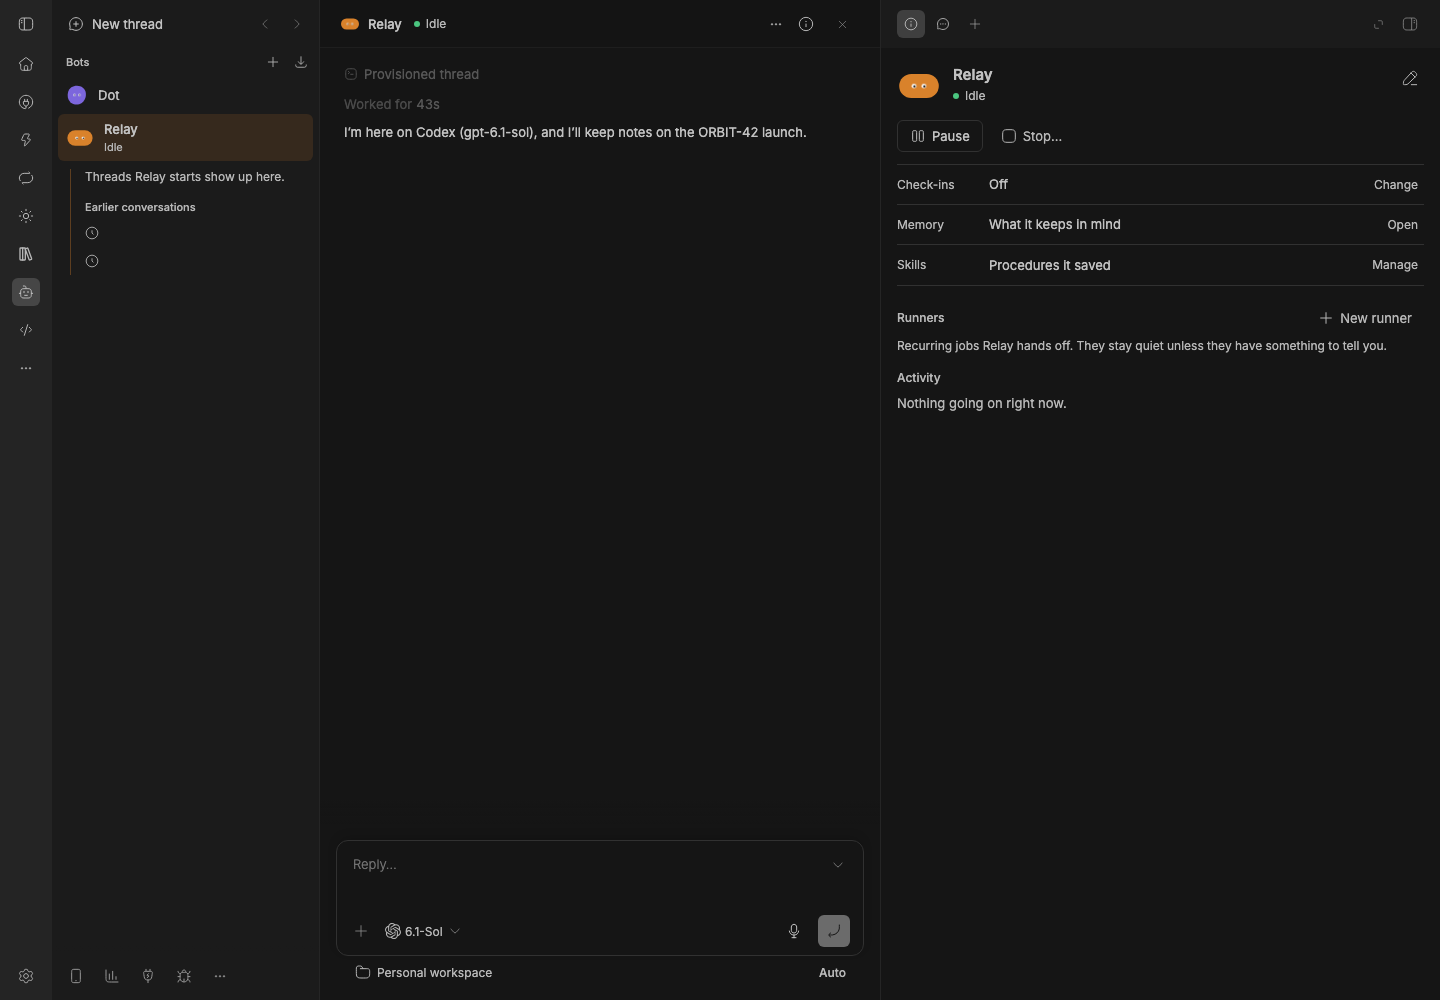
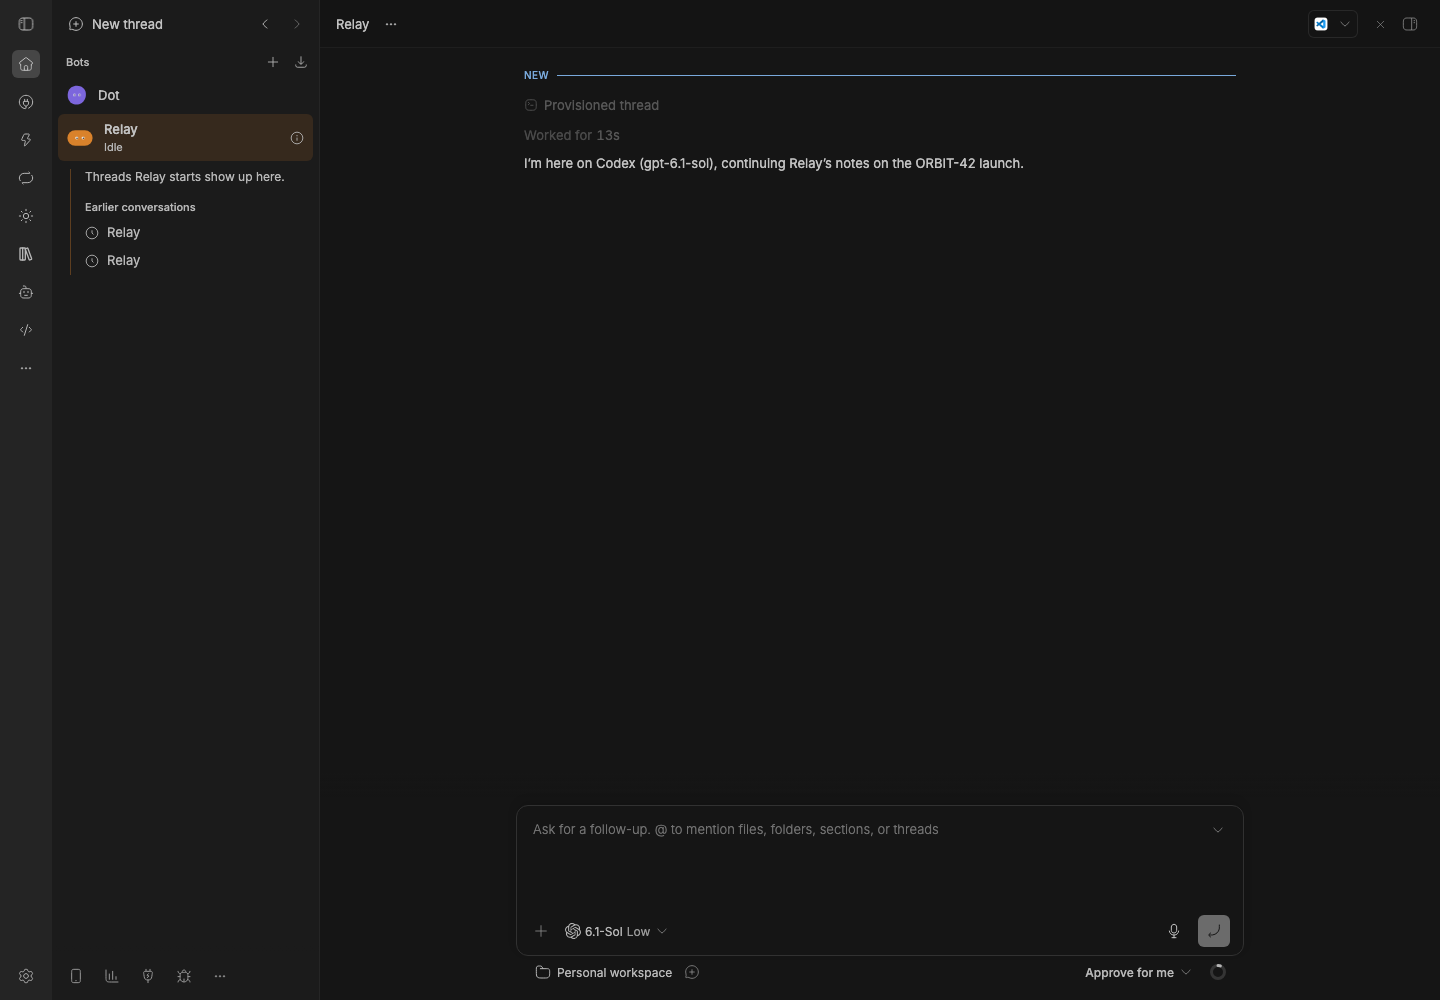
Recapture the Bot handoff screenshot with titled Earlier conversations

diff --git a/packages/bb-studio/README.md b/packages/bb-studio/README.md
@@ -1005,7 +1005,7 @@ bb studio reindex
 
 ![Switch model… on Relay's Info, a staged bot whose thread was handed off from Codex to Claude Code Opus and then switched in place to Sonnet: the dialog says Now on Claude Code · claude-sonnet-5-5 over BB's own provider/model picker set to Sonnet 5.5](assets/bot-switch-model.png)
 
-![Relay after a Claude Code → Codex handoff: the chat is the new Codex thread, whose real reply says it's here on Codex (gpt-6.1-sol), and its two earlier threads are under Earlier conversations in the Bots sidebar](assets/bot-handoff.png)
+![Relay after a Claude Code → Codex handoff: the chat is the new Codex thread, whose real reply says it's here on Codex (gpt-6.1-sol), and its two earlier threads, each titled Relay, are under Earlier conversations in the Bots sidebar](assets/bot-handoff.png)
 
 ![No Bot yet: the page greets you as one, with Plan my week, What needs me today?, Set up a morning brief and Customize me, and a message box; the first message makes it](assets/bot-create.png)
 
